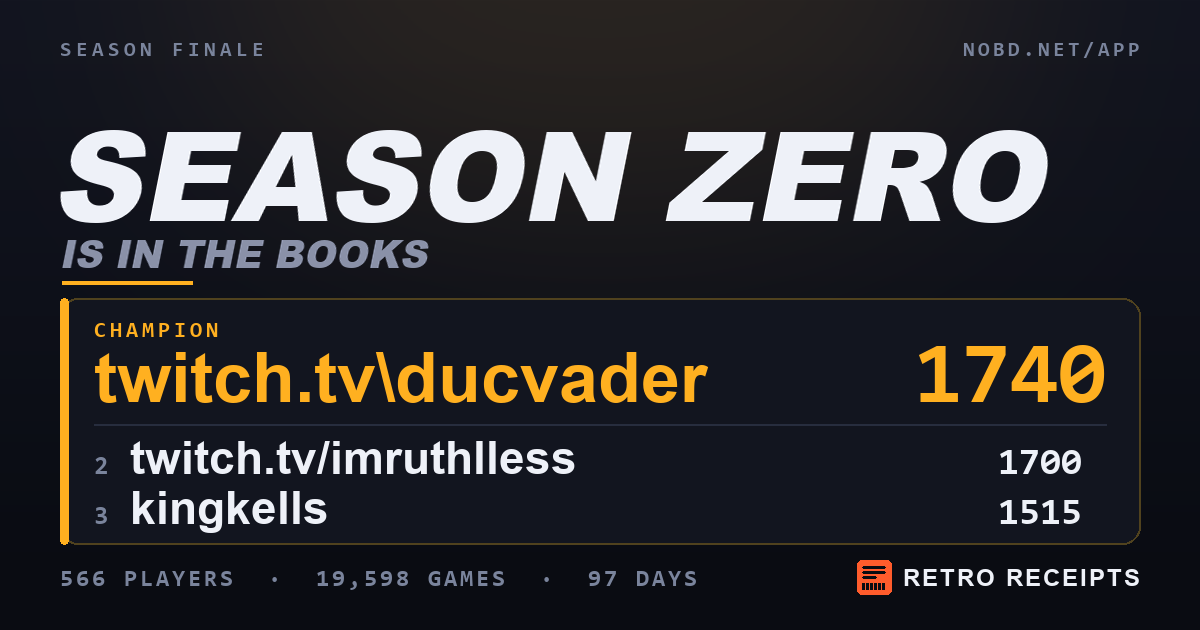
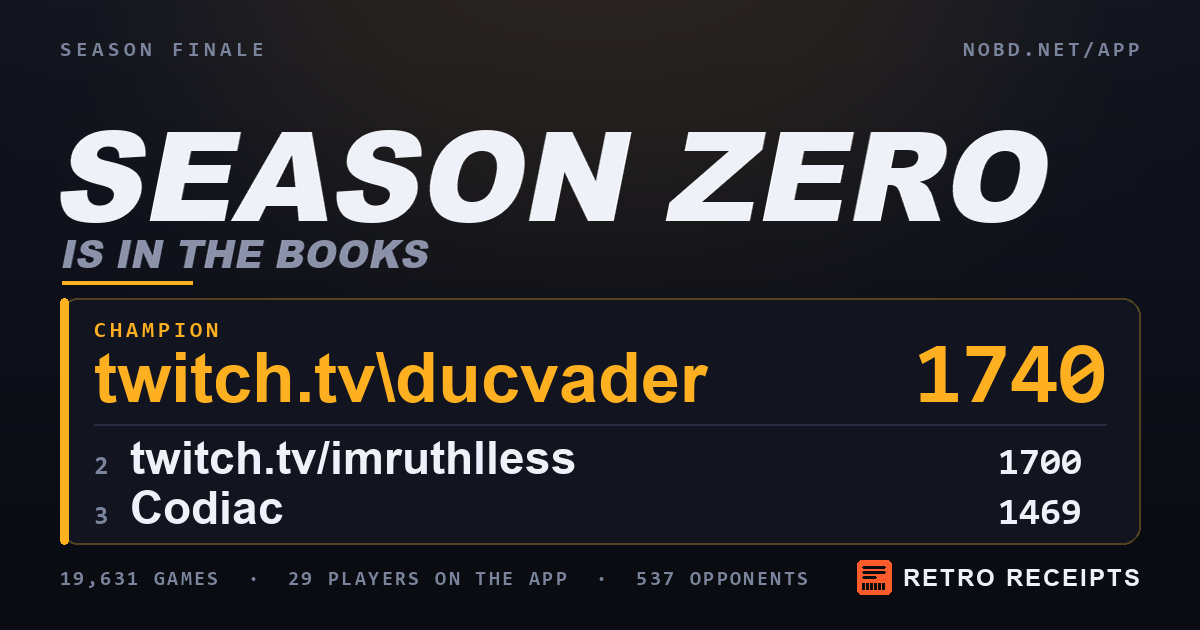
seasons: regenerate Season Zero share card from staging (29 on the app, 537 opponents); portrait footer fits

Changed region(s): [[0.0308, 0.9048, 0.6783, 0.9349], [0.0925, 0.7841, 0.2775, 0.8444], [0.8325, 0.7841, 0.8942, 0.8444]]

diff --git a/pwa/scripts/build-og-season.py b/pwa/scripts/build-og-season.py
@@ -268,11 +268,17 @@ def card_portrait(label, players, totals, line):
     ph = int(150 * 1.35) + 2 * int(64 * 1.35) + 28
     champion_plate(img, 60, py, W - 120, ph, players, scale=1.35, stack=True)
     d = ImageDraw.Draw(img)
-    ff = font(F_MONO, 30)
     foot = "  \u00b7  ".join(totals)
     fy = py + ph + 46
     if foot:
-        draw_tracked(d, (60, fy), foot, ff, MUTED, 3.0)
+        # shrink until the whole footer fits inside the margins (it never runs off the card)
+        size, track = 30, 3.0
+        ff = font(F_MONO, size)
+        while tracked_w(ff, foot, track) > W - 120 and size > 15:
+            size -= 1
+            track = max(1.5, track - 0.15)
+            ff = font(F_MONO, size)
+        draw_tracked(d, (60, fy + (30 - size) // 2), foot, ff, MUTED, track)
     if line:
         lf = font(F_BOLD, 40)
         lines, cur = [], ""
